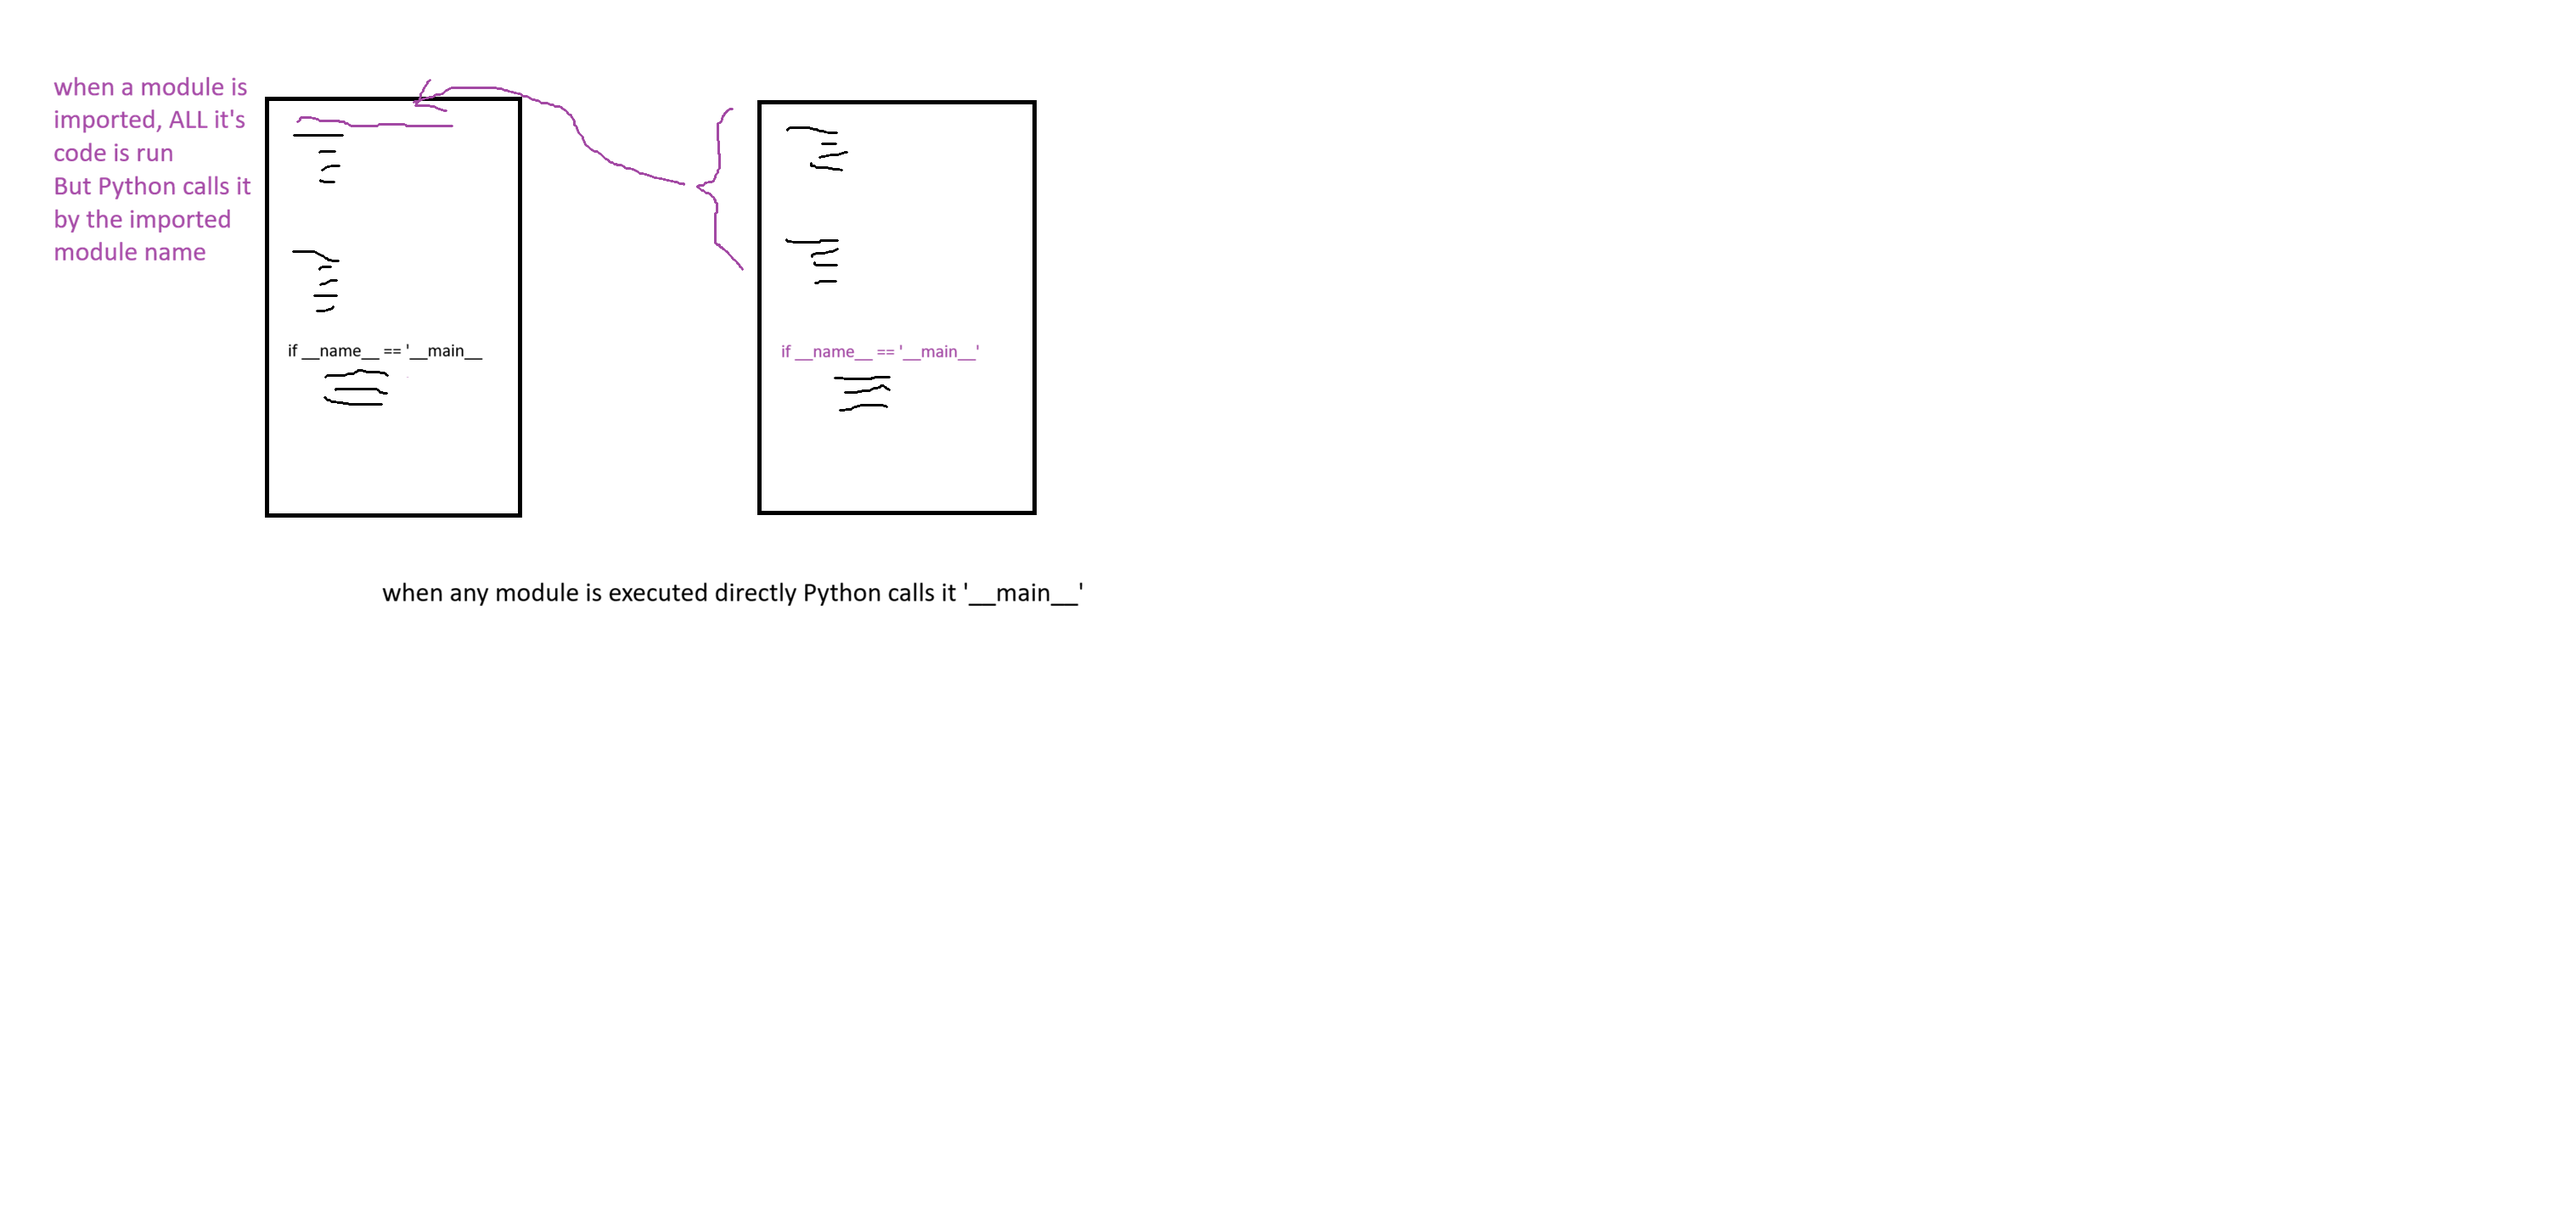
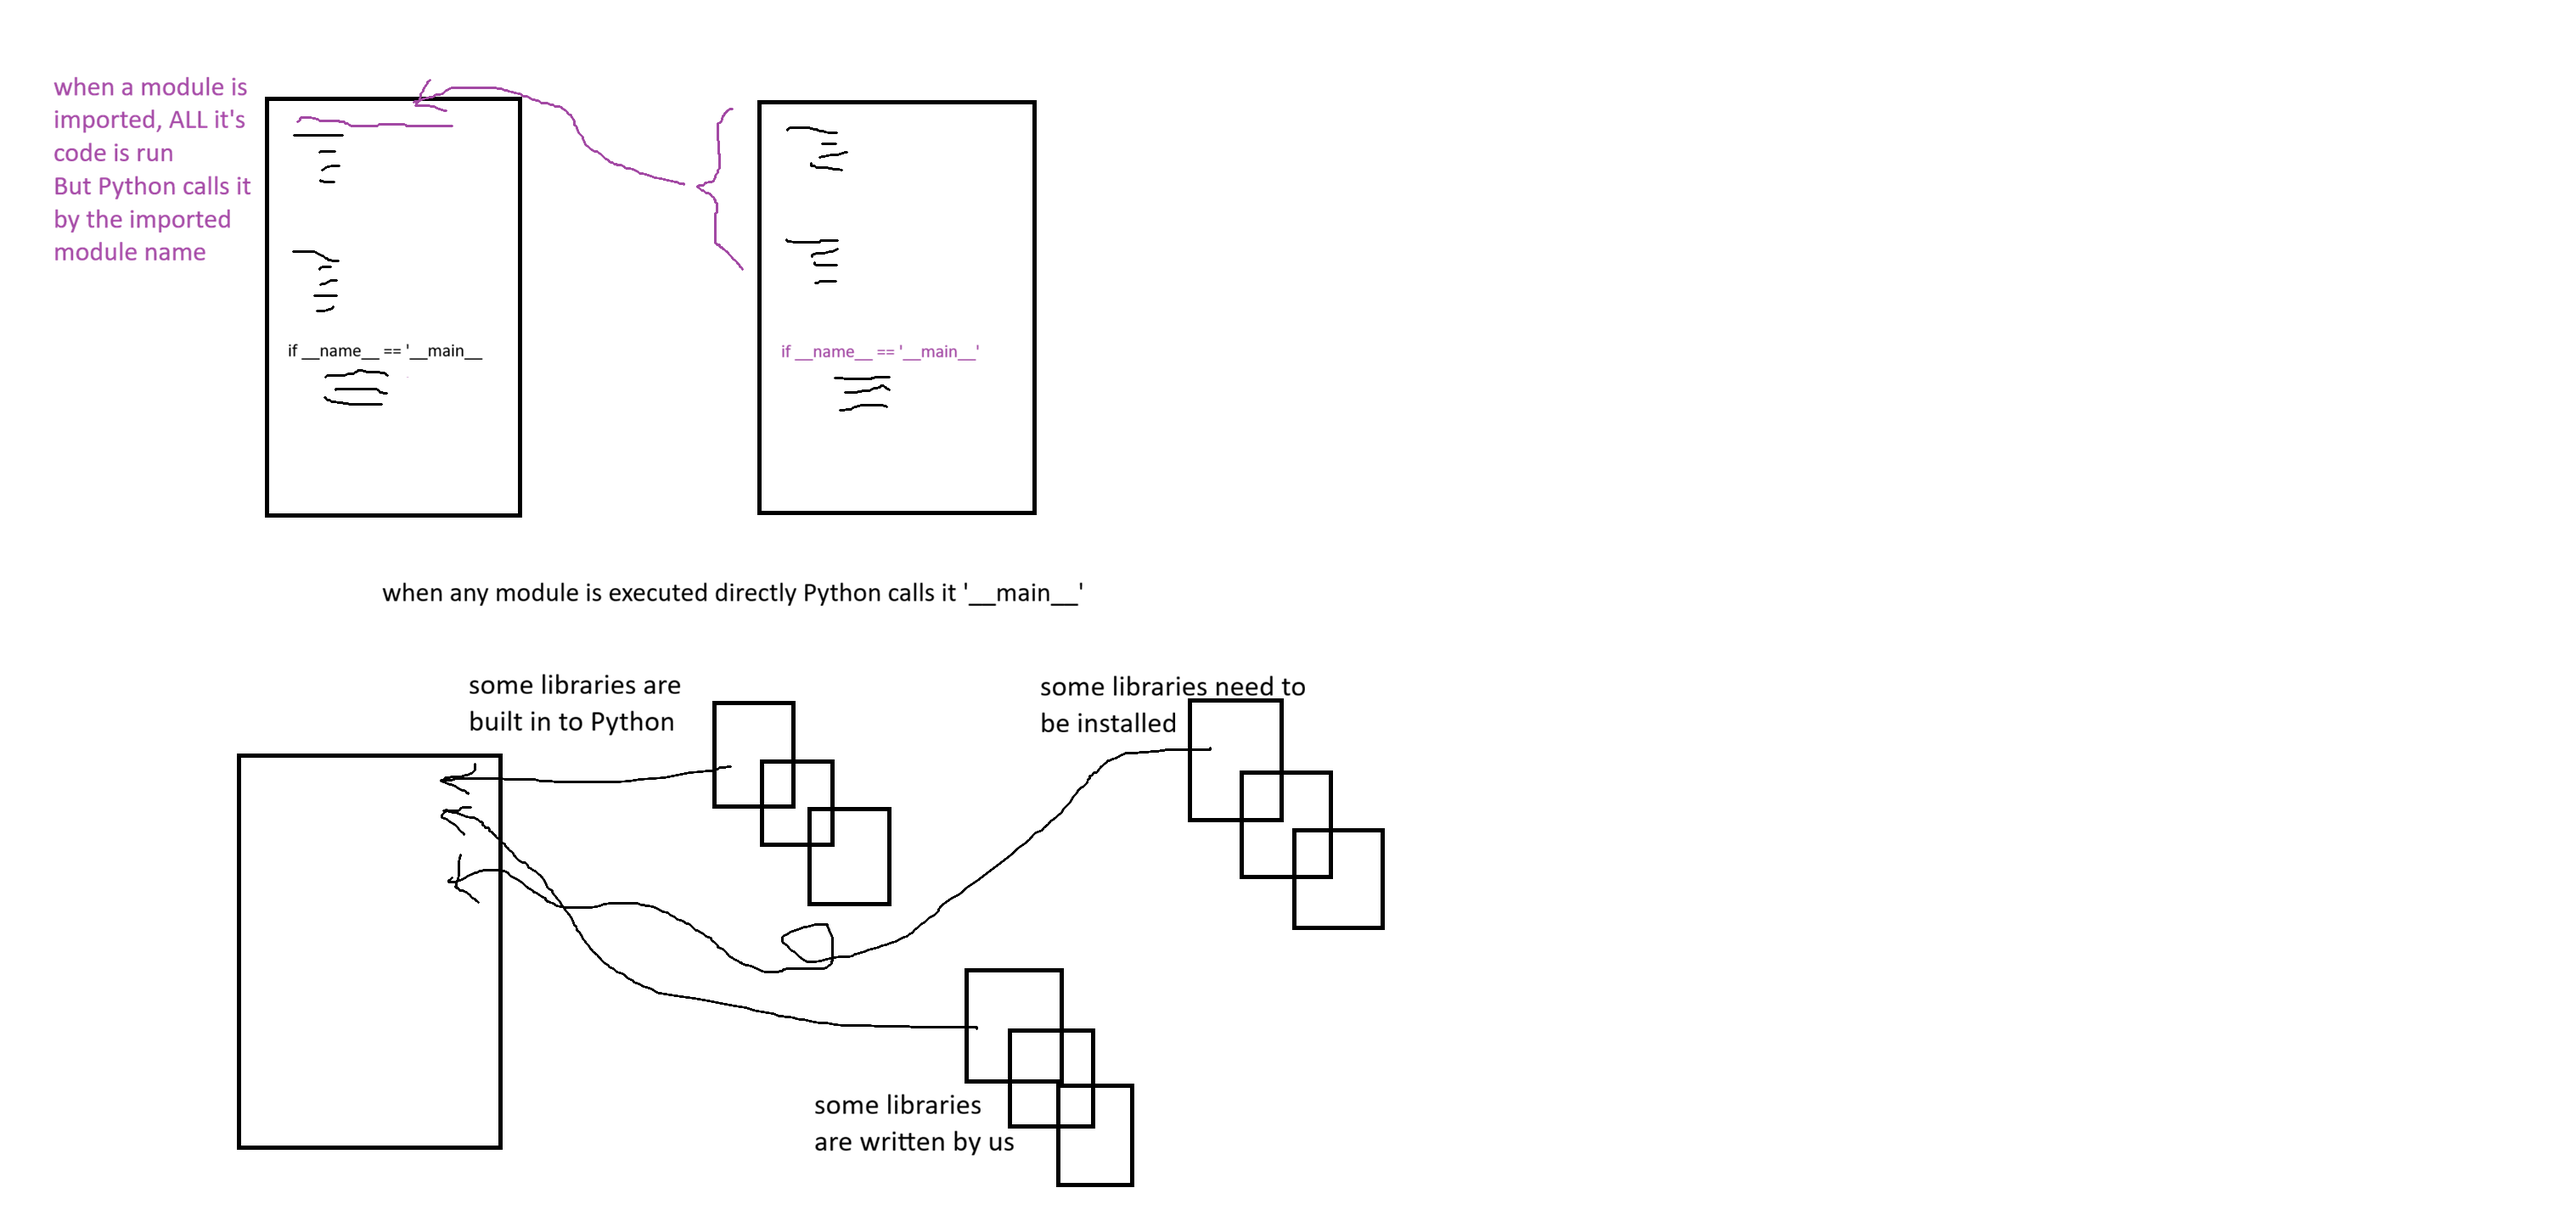
diagram about libraries

diff --git a/readme.md b/readme.md
@@ -50,13 +50,15 @@ all my code wil be here:
   > use registration code FJZVCP
   > find the recordings and download individually
 - resolve: how to re-use a generator when it is exhausted?
-- dunder and '__main__'
-- if __name__ == '__main__'
+- dunder and '__main__'. Anything __nnn__ belongs to Python
+> if __name__ == '__main__'
+  - https://realpython.com/if-name-main-python/
 - range, generators
 - comprehensions
 - to add libraries to python:
-  - python -m ensurepip
-  - python –m pip install requests (or any other library you need)
+  - python3 -m ensurepip
+  - ...or python or py 
+  - python3 –m pip install requests (or any other library you need)
   or 
   - pip3 install requests
 - using requests (to access web API via HTTP)
